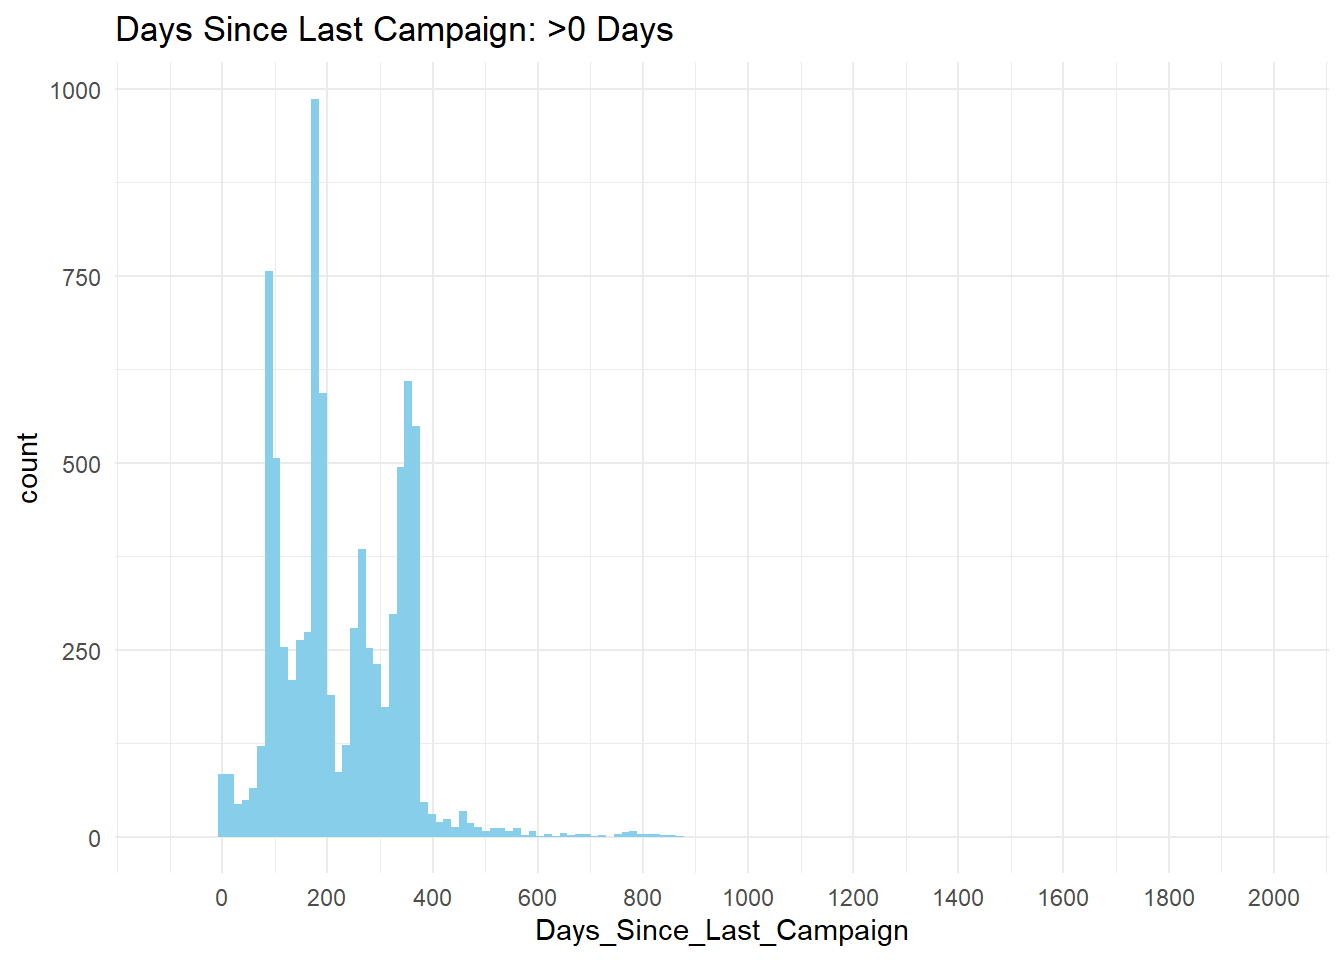
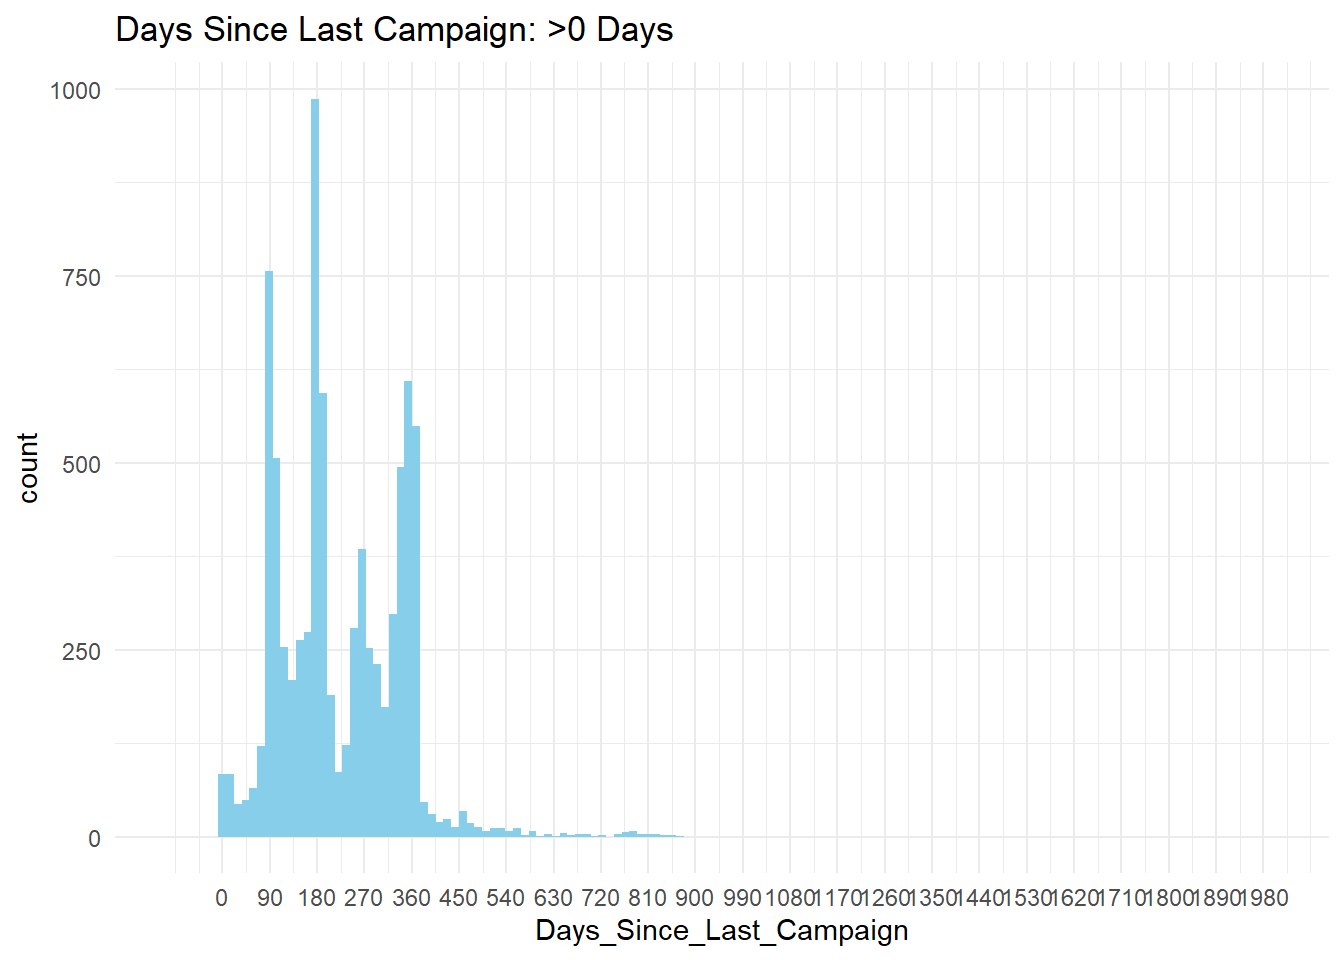
assignment 1

Changed region(s): [[0.1875, 0.9062, 0.8438, 0.9688], [0.875, 0.9062, 0.9688, 0.9688]]

diff --git a/Assignment_1/Assignment_1_Fox.html b/Assignment_1/Assignment_1_Fox.html
@@ -122,18 +122,18 @@ pre > code.sourceCode > span > a:first-child::before { text-decoration: underlin
 <span id="cb1-4"><a href="#cb1-4" aria-hidden="true" tabindex="-1"></a><span class="fu">library</span>(knitr)</span>
 <span id="cb1-5"><a href="#cb1-5" aria-hidden="true" tabindex="-1"></a><span class="fu">library</span>(scales)</span>
 <span id="cb1-6"><a href="#cb1-6" aria-hidden="true" tabindex="-1"></a><span class="fu">library</span>(reshape2)</span>
-<span id="cb1-7"><a href="#cb1-7" aria-hidden="true" tabindex="-1"></a><span class="fu">library</span>(GGally)</span></code><button title="Copy to Clipboard" class="code-copy-button"><i class="bi"></i></button></pre></div>
+<span id="cb1-7"><a href="#cb1-7" aria-hidden="true" tabindex="-1"></a><span class="fu">library</span>(GGally)</span>
+<span id="cb1-8"><a href="#cb1-8" aria-hidden="true" tabindex="-1"></a></span>
+<span id="cb1-9"><a href="#cb1-9" aria-hidden="true" tabindex="-1"></a>df <span class="ot">&lt;-</span> <span class="fu">read_delim</span>(<span class="st">"https://raw.githubusercontent.com/AmandaSFox/DATA622/refs/heads/main/Assignment_1/bank-full.csv"</span>,</span>
+<span id="cb1-10"><a href="#cb1-10" aria-hidden="true" tabindex="-1"></a>                 <span class="at">delim =</span> <span class="st">";"</span>,</span>
+<span id="cb1-11"><a href="#cb1-11" aria-hidden="true" tabindex="-1"></a>                 <span class="at">quote =</span> <span class="st">"</span><span class="sc">\"</span><span class="st">"</span>)</span></code><button title="Copy to Clipboard" class="code-copy-button"><i class="bi"></i></button></pre></div>
 </div>
 </section>
 <section id="dataset-overview" class="level2">
 <h2 class="anchored" data-anchor-id="dataset-overview">2. Dataset Overview</h2>
 <p>The dataset contains <strong><em>45,211 records and 17 columns</em></strong>. There are <strong><em>no missing values and no duplicate records</em></strong>: as we go through this EDA exercise, it will become increasingly clear that this dataset has been thoroughly cleaned.</p>
 <div class="cell">
-<div class="sourceCode cell-code" id="cb2"><pre class="sourceCode r code-with-copy"><code class="sourceCode r"><span id="cb2-1"><a href="#cb2-1" aria-hidden="true" tabindex="-1"></a>df <span class="ot">&lt;-</span> <span class="fu">read_delim</span>(<span class="st">"https://raw.githubusercontent.com/AmandaSFox/DATA622/refs/heads/main/Assignment_1/bank-full.csv"</span>,</span>
-<span id="cb2-2"><a href="#cb2-2" aria-hidden="true" tabindex="-1"></a>                 <span class="at">delim =</span> <span class="st">";"</span>,</span>
-<span id="cb2-3"><a href="#cb2-3" aria-hidden="true" tabindex="-1"></a>                 <span class="at">quote =</span> <span class="st">"</span><span class="sc">\"</span><span class="st">"</span>)</span>
-<span id="cb2-4"><a href="#cb2-4" aria-hidden="true" tabindex="-1"></a></span>
-<span id="cb2-5"><a href="#cb2-5" aria-hidden="true" tabindex="-1"></a><span class="fu">glimpse</span>(df)</span></code><button title="Copy to Clipboard" class="code-copy-button"><i class="bi"></i></button></pre></div>
+<div class="sourceCode cell-code" id="cb2"><pre class="sourceCode r code-with-copy"><code class="sourceCode r"><span id="cb2-1"><a href="#cb2-1" aria-hidden="true" tabindex="-1"></a><span class="fu">glimpse</span>(df)</span></code><button title="Copy to Clipboard" class="code-copy-button"><i class="bi"></i></button></pre></div>
 <div class="cell-output cell-output-stdout">
 <pre><code>Rows: 45,211
 Columns: 17
@@ -155,7 +155,8 @@ $ previous  &lt;dbl&gt; 0, 0, 0, 0, 0, 0, 0, 0, 0, 0, 0, 0, 0, 0, 0, 0, 0, 0, 0,
 $ poutcome  &lt;chr&gt; "unknown", "unknown", "unknown", "unknown", "unknown", "unkn…
 $ y         &lt;chr&gt; "no", "no", "no", "no", "no", "no", "no", "no", "no", "no", …</code></pre>
 </div>
-<div class="sourceCode cell-code" id="cb4"><pre class="sourceCode r code-with-copy"><code class="sourceCode r"><span id="cb4-1"><a href="#cb4-1" aria-hidden="true" tabindex="-1"></a><span class="fu">colSums</span>(<span class="fu">is.na</span>(df))</span></code><button title="Copy to Clipboard" class="code-copy-button"><i class="bi"></i></button></pre></div>
+<div class="sourceCode cell-code" id="cb4"><pre class="sourceCode r code-with-copy"><code class="sourceCode r"><span id="cb4-1"><a href="#cb4-1" aria-hidden="true" tabindex="-1"></a><span class="co"># missing data</span></span>
+<span id="cb4-2"><a href="#cb4-2" aria-hidden="true" tabindex="-1"></a><span class="fu">colSums</span>(<span class="fu">is.na</span>(df))</span></code><button title="Copy to Clipboard" class="code-copy-button"><i class="bi"></i></button></pre></div>
 <div class="cell-output cell-output-stdout">
 <pre><code>      age       job   marital education   default   balance   housing      loan 
         0         0         0         0         0         0         0         0 
@@ -164,14 +165,14 @@ $ y         &lt;chr&gt; "no", "no", "no", "no", "no", "no", "no", "no", "no", "n
         y 
         0 </code></pre>
 </div>
-<div class="sourceCode cell-code" id="cb6"><pre class="sourceCode r code-with-copy"><code class="sourceCode r"><span id="cb6-1"><a href="#cb6-1" aria-hidden="true" tabindex="-1"></a><span class="fu">nrow</span>(df) <span class="sc">-</span> <span class="fu">nrow</span>(<span class="fu">distinct</span>(df))</span></code><button title="Copy to Clipboard" class="code-copy-button"><i class="bi"></i></button></pre></div>
+<div class="sourceCode cell-code" id="cb6"><pre class="sourceCode r code-with-copy"><code class="sourceCode r"><span id="cb6-1"><a href="#cb6-1" aria-hidden="true" tabindex="-1"></a><span class="co"># duplicate records</span></span>
+<span id="cb6-2"><a href="#cb6-2" aria-hidden="true" tabindex="-1"></a><span class="fu">nrow</span>(df) <span class="sc">-</span> <span class="fu">nrow</span>(<span class="fu">distinct</span>(df))</span></code><button title="Copy to Clipboard" class="code-copy-button"><i class="bi"></i></button></pre></div>
 <div class="cell-output cell-output-stdout">
 <pre><code>[1] 0</code></pre>
 </div>
 </div>
 <p>The data consists of bank customers who were contacted as part of a marketing campaign and the features describe customer demographics, financial history, and characteristics of their interactions, as well as a label “y” which indicates whether they did choose the new deposit account.</p>
-<p>Before doing further analysis, I changed the column names to be more meaningful: this is my personal preference so that I can more clearly see how the data stacks up against my expectations based on my business knowledge.</p>
-<p>Now let’s <em>get to know our population</em>, starting with the categorical variables:</p>
+<p>Before doing further analysis, I reviewed the documentation and changed the column names to be more meaningful: I like to do this so that I can more clearly see how the data stacks up against my expectations and business knowledge.</p>
 <div class="cell">
 <div class="sourceCode cell-code" id="cb8"><pre class="sourceCode r code-with-copy"><code class="sourceCode r"><span id="cb8-1"><a href="#cb8-1" aria-hidden="true" tabindex="-1"></a>df_final <span class="ot">&lt;-</span> df <span class="sc">%&gt;%</span> </span>
 <span id="cb8-2"><a href="#cb8-2" aria-hidden="true" tabindex="-1"></a>  <span class="fu">set_names</span>(<span class="st">"Age"</span>,<span class="st">"Occupation"</span>,<span class="st">"Marital_Status"</span>,<span class="st">"Education"</span>,</span>
@@ -183,15 +184,16 @@ $ y         &lt;chr&gt; "no", "no", "no", "no", "no", "no", "no", "no", "no", "n
 </section>
 <section id="exploring-the-data" class="level2">
 <h2 class="anchored" data-anchor-id="exploring-the-data">3. Exploring the Data</h2>
-<p>Simple frequency distributions of the categorical variables were done to check for class imbalance. Overall, this data paints a picture of a <strong><em>financially stable, middle-class, working-age adult population</em></strong>: typical of <em>target customers for banking products</em>.</p>
-<p>It should also be noted here again that this data is <em>extremely clean</em>: just as there are no missing values, there are no clearly incorrect values (e.g.&nbsp;misspellings, upper/lower case issues, values appearing in the wrong columns/truncated/concatenated/etc.).</p>
+<p>Now let’s <em>get to know our population</em>, starting with the <strong>categorical variables</strong>.</p>
+<p>Simple frequency distributions were done to check for class imbalance. Overall, this data paints a picture of a <strong>financially stable, middle-class, working-age adult population</strong> which is <strong>typical of target customers for banking products</strong> like deposit accounts.</p>
+<p>It should be noted here again that this data is <em>extremely clean</em>: just as there are no missing values, there are no clearly incorrect values (e.g.&nbsp;misspellings, upper/lower case issues, values appearing in the wrong columns/truncated/concatenated/etc.).</p>
 <p>Regarding the target population:</p>
 <p><strong>1. Most target customers were employed</strong>: There were eight occupation categories comprising <strong>89.4%</strong> of the population, with blue-collar (21.5%), management (20.9%), and technician (16.8%) being the most common categories. Only 10.0% of customers were not currently employed (retired, unemployed, student) and 0.6% were unknown.</p>
 <p><strong>2. Education varied</strong> in rough alignment with the occupations above: 29.4% had tertiary education, 51.3% secondary, 15.2% primary</p>
 <p><strong>3. Most were married (60.2%)</strong></p>
 <p><strong>4. They were financially stable</strong>: 98.2% were not in default, 55.6% had housing loans and only 16% had personal loans.</p>
-<p>The “previous outcome” field is interesting: <em>3.3% of previous interactions were deemed “successes,”</em> which raises the question why they were called again. 81.7% were “unknown” and 4.1% “other,” so I <em>do not believe this field is very meaningful</em>.</p>
-<p>Finally, <strong><em>11.4% of contacts were successful</em></strong> in selling the product, the goal of the marketing outreach: this is our <strong>label</strong> for supervised ML.</p>
+<p>Regarding the other categorical fields, the “previous outcome” field is interesting: <strong>3.3% of previous interactions were deemed “successes,”</strong> which raises the question why they were called again. 81.7% were “unknown,” which seems to indicate this was their first interaction, and 4.1% “other,” so I <em>do not believe this field is very meaningful</em>.</p>
+<p>Finally, our <strong>label (y)</strong>: <strong><em>11.4% of contacts were successful</em></strong> in selling the product, the goal of the marketing outreach and our label for supervised ML.</p>
 <div class="cell">
 <div class="sourceCode cell-code" id="cb9"><pre class="sourceCode r code-with-copy"><code class="sourceCode r"><span id="cb9-1"><a href="#cb9-1" aria-hidden="true" tabindex="-1"></a><span class="co"># categorical column list</span></span>
 <span id="cb9-2"><a href="#cb9-2" aria-hidden="true" tabindex="-1"></a>cat_cols <span class="ot">&lt;-</span> df_final <span class="sc">%&gt;%</span> </span>
@@ -284,8 +286,8 @@ $ y         &lt;chr&gt; "no", "no", "no", "no", "no", "no", "no", "no", "no", "n
 2 yes    5289  11.7</code></pre>
 </div>
 </div>
-<p>Next, we look at our numeric variables for central tendency, spread, and outliers.</p>
-<p>To complete our demographic analysis, I first analyzed <strong>Age</strong>, which shows a solid, <em>mostly working-age adult population</em> in alignment with a bank’s target customer base:</p>
+<p>Next, we look at our <strong>numeric variables</strong> for central tendency, spread, and outliers.</p>
+<p>To complete our demographic analysis, I first looked at <strong>Age</strong>, which shows a solid, <em>mostly working-age adult population</em> in alignment with a bank’s target customer base:</p>
 <div class="cell">
 <div class="sourceCode cell-code" id="cb11"><pre class="sourceCode r code-with-copy"><code class="sourceCode r"><span id="cb11-1"><a href="#cb11-1" aria-hidden="true" tabindex="-1"></a><span class="co"># numerical column list: removed "Day" as it is not a meaningful number</span></span>
 <span id="cb11-2"><a href="#cb11-2" aria-hidden="true" tabindex="-1"></a>df_num <span class="ot">&lt;-</span> df_final <span class="sc">%&gt;%</span> </span>
@@ -312,8 +314,9 @@ $ y         &lt;chr&gt; "no", "no", "no", "no", "no", "no", "no", "no", "no", "n
 </div>
 </div>
 </div>
-<p>Another numeric column (Avg Balance) tells us more about their financial health. Note that <em>most people owed very little with a few owing quite a lot</em>: given the extreme right skew, this histogram is zoomed in to focus on balances below $5000.</p>
-<p><strong>Average annual balance</strong>: The median annual average balance owed was only $448, with a narrow IQR of $1,480. The max was high but reasonable at $102,127, and there were some small negative balances owed, likely reflecting overpaid accounts. These outliers and negative values will be <em>left alone</em> as they are realistic and potentially meaningful.</p>
+<p>Another numeric column (Avg Balance) tells us more about their financial health. Note that <em>most people owed very little with a few owing quite a lot</em>: given the <strong>extreme right skew</strong>, the histogram below is zoomed in to balances below $5000.</p>
+<p><strong>Average annual balance</strong>: The median annual average balance owed was only $448, with a narrow IQR of $1,480. The max was realistic at $102,127, and there were some small negative balances owed, likely reflecting overpaid accounts.</p>
+<p>These outliers and negative values will be <em>left alone</em> as they are realistic and meaningful.</p>
 <div class="cell">
 <div class="sourceCode cell-code" id="cb14"><pre class="sourceCode r code-with-copy"><code class="sourceCode r"><span id="cb14-1"><a href="#cb14-1" aria-hidden="true" tabindex="-1"></a><span class="fu">summary</span>(df_num<span class="sc">$</span>Avg_Balance)</span></code><button title="Copy to Clipboard" class="code-copy-button"><i class="bi"></i></button></pre></div>
 <div class="cell-output cell-output-stdout">
@@ -337,10 +340,13 @@ $ y         &lt;chr&gt; "no", "no", "no", "no", "no", "no", "no", "no", "no", "n
 </div>
 </div>
 <p>The remaining numeric variables describe the outreach itself:</p>
-<p><strong>1. Median call duration</strong> was 180 seconds, with the longest call = 4918 seconds or over an hour and 20 minutes long. The IQR was 216 seconds, with 50% of calls lasting between 103 and 319 seconds. No negative numbers were found. The outliers will be <em>left alone</em> as they are realistic for long phone calls.</p>
-<p><strong>2. Contacts before this campaign</strong>: This was the first campaign for a large majority of customers (81.9%)</p>
+<p><strong>1. Median call duration</strong> was 180 seconds, with the longest call = 4918 seconds or over an hour and 20 minutes long. The IQR was 216 seconds, with 50% of calls lasting between 103 and 319 seconds.</p>
+<p>No negative numbers were found. The outliers will be <em>left alone</em> as they are realistic and meaningful.</p>
+<p><strong>2. Contacts before this campaign</strong>: This was the first campaign for a large majority of customers (81.9%). No negative or obviously incorrect values were found.</p>
 <p><strong>3. Contacts this campaign</strong>: The median # of contacts this campaign was two calls, with an IQR of two. The min was one call, which makes sense, but the max ranged up to 63: this seems unusual and could possibly be a data issue but we will <em>leave these outliers alone</em> for now.</p>
-<p><strong>4. Days since last campaign</strong>: This is the first <em>potential problem</em> in the data: the 81.7% of first-time outreach customers are denoted here as -1 days since last campaign, which will cause statistical and mathematical issues (see summary for an example). <em>These might be better changed to NA</em>. Ignoring these for now, the histogram below shows values &gt;0, which vary widely with no particular pattern. I’m not clear on the value of this data from a business perspective, but we will see.</p>
+<p><strong>4. Days since last campaign</strong>: This is the <strong>first potential problem</strong> in the data: the 81.7% of first-time outreach customers are denoted here as -1 days since last campaign, which will cause statistical and mathematical issues (see summary).</p>
+<p><em>These -1 numeric values might be better changed to NA</em>. Ignoring these for now, the histogram below shows values &gt;0, which vary widely in a multimodal distribution with perhaps a <em>quarterly</em> pattern and a very <em>long tail</em>. I’m not clear on the value of this data, but we will leave it alone.</p>
+<p>Note on other visuals not included: Box plots reflected the distributions and outliers noted above, so I did not include any here.</p>
 <div class="cell">
 <div class="sourceCode cell-code" id="cb17"><pre class="sourceCode r code-with-copy"><code class="sourceCode r"><span id="cb17-1"><a href="#cb17-1" aria-hidden="true" tabindex="-1"></a><span class="co"># Call Duration</span></span>
 <span id="cb17-2"><a href="#cb17-2" aria-hidden="true" tabindex="-1"></a><span class="fu">summary</span>(df_num<span class="sc">$</span>Duration)</span></code><button title="Copy to Clipboard" class="code-copy-button"><i class="bi"></i></button></pre></div>
@@ -465,7 +471,7 @@ $ y         &lt;chr&gt; "no", "no", "no", "no", "no", "no", "no", "no", "no", "n
 <span id="cb32-6"><a href="#cb32-6" aria-hidden="true" tabindex="-1"></a>  <span class="fu">geom_histogram</span>(<span class="at">bins =</span> <span class="dv">60</span>, <span class="at">fill =</span> <span class="st">"skyblue"</span>) <span class="sc">+</span></span>
 <span id="cb32-7"><a href="#cb32-7" aria-hidden="true" tabindex="-1"></a>  <span class="fu">theme_minimal</span>() <span class="sc">+</span></span>
 <span id="cb32-8"><a href="#cb32-8" aria-hidden="true" tabindex="-1"></a>  <span class="fu">coord_cartesian</span>(<span class="fu">c</span>(<span class="sc">-</span><span class="dv">100</span>,<span class="dv">2000</span>)) <span class="sc">+</span></span>
-<span id="cb32-9"><a href="#cb32-9" aria-hidden="true" tabindex="-1"></a>  <span class="fu">scale_x_continuous</span>(<span class="at">breaks =</span> <span class="fu">seq</span>(<span class="dv">0</span>, <span class="dv">2000</span>, <span class="at">by =</span> <span class="dv">200</span>)) <span class="sc">+</span></span>
+<span id="cb32-9"><a href="#cb32-9" aria-hidden="true" tabindex="-1"></a>  <span class="fu">scale_x_continuous</span>(<span class="at">breaks =</span> <span class="fu">seq</span>(<span class="dv">0</span>, <span class="dv">2000</span>, <span class="at">by =</span> <span class="dv">90</span>)) <span class="sc">+</span></span>
 <span id="cb32-10"><a href="#cb32-10" aria-hidden="true" tabindex="-1"></a>  <span class="fu">labs</span>(<span class="at">title =</span> <span class="st">"Days Since Last Campaign: &gt;0 Days"</span>)</span></code><button title="Copy to Clipboard" class="code-copy-button"><i class="bi"></i></button></pre></div>
 <div class="cell-output-display">
 <div>
@@ -480,7 +486,9 @@ $ y         &lt;chr&gt; "no", "no", "no", "no", "no", "no", "no", "no", "no", "n
 <h2 class="anchored" data-anchor-id="relationships-between-variables">4. Relationships Between Variables</h2>
 <section id="numeric-vs-numeric---correlation-analysis" class="level3">
 <h3 class="anchored" data-anchor-id="numeric-vs-numeric---correlation-analysis">4.1 Numeric vs Numeric - Correlation Analysis</h3>
-<p>A correlation matrix was computed to identify relationships between numeric features. No significant correlations were found, in fact, <em>only one pair of numeric columns had a correlation coefficient (absolute value) over 0.1</em>: “contacts before this campaign” and “days since last campaign”. This makes sense as most (81.4%) of people contacted had zero contacts before this campaign and therefore had a value of -1 days since last campaign.</p>
+<p>A correlation matrix was computed to identify relationships between numeric features.</p>
+<p>No significant correlations were found, in fact, <strong>all pairs had correlation coefficients (absolute value) less than 0.1 except for one</strong>: “contacts before this campaign” and “days since last campaign” had a correlation coefficient of 0.45. This is still low but it makes sense that there is some correlation because over 80% of people contacted had had zero contacts before this campaign and therefore had a value of -1 days since last campaign.</p>
+<p>The <strong>lack of correlation</strong> between columns is more evidence that this dataset was thoroughly <strong>pre-processed</strong>.</p>
 <div class="cell">
 <div class="sourceCode cell-code" id="cb33"><pre class="sourceCode r code-with-copy"><code class="sourceCode r"><span id="cb33-1"><a href="#cb33-1" aria-hidden="true" tabindex="-1"></a>cor_matrix <span class="ot">&lt;-</span> df_num <span class="sc">%&gt;%</span> </span>
 <span id="cb33-2"><a href="#cb33-2" aria-hidden="true" tabindex="-1"></a>  <span class="fu">cor</span>(<span class="at">use =</span> <span class="st">"pairwise.complete.obs"</span>)</span>
@@ -516,12 +524,12 @@ $ y         &lt;chr&gt; "no", "no", "no", "no", "no", "no", "no", "no", "no", "n
 </div>
 </div>
 </div>
-<p>I also tried ggally and scatterplots in case there were non-linear patterns, but they showed no patterns.</p>
-<p>The lack of correlation among these columns is more evidence that this dataset was thoroughly pre-processed.</p>
+<p><em>Other visuals not included here</em>: I tried scatterplots and ggally in case there were non-linear correlation patterns, but they showed nothing of interest.</p>
 </section>
 <section id="numeric-vs-categorical---boxplots" class="level3">
 <h3 class="anchored" data-anchor-id="numeric-vs-categorical---boxplots">4.2 Numeric vs Categorical - Boxplots</h3>
 <p>Boxplots were used to review how numeric features (e.g., age, balance, duration) vary across categorical groups like job, education, and marital.</p>
+<p>None of the relationships were unexpected, and many were not meaningful at all (month vs.&nbsp;age, for example). However, a few interesting/intuitive pairs are included below as examples.</p>
 <div class="cell">
 <div class="sourceCode cell-code" id="cb36"><pre class="sourceCode r code-with-copy"><code class="sourceCode r"><span id="cb36-1"><a href="#cb36-1" aria-hidden="true" tabindex="-1"></a>num_cols <span class="ot">&lt;-</span> df_num <span class="sc">%&gt;%</span> </span>
 <span id="cb36-2"><a href="#cb36-2" aria-hidden="true" tabindex="-1"></a>  <span class="fu">names</span>()</span>
@@ -1304,7 +1312,7 @@ $ y         &lt;chr&gt; "no", "no", "no", "no", "no", "no", "no", "no", "no", "n
 </section>
 <section id="summary-of-key-findings" class="level3">
 <h3 class="anchored" data-anchor-id="summary-of-key-findings">Summary of Key Findings</h3>
-<p>The dataset is clean and ready for modeling, with no missing values, duplicates, or data quality issues. Numeric variables are mostly independent, with no strong correlations, which simplifies model selection. Categorical variables exhibit some class imbalance, particularly in job, which may require consideration in model training. No surprising or unexpected patterns were found; the data aligns with reasonable expectations for a financial marketing campaign.</p>
+<p>The dataset is clean and ready for modeling, with no missing values, duplicates, highly correlated columns, or data quality issues. Numeric variables are mostly independent, with no strong correlations, which simplifies model selection. Categorical variables exhibit some class imbalance, particularly in job, which may require consideration in model training. No surprising or unexpected patterns were found; the data aligns with reasonable expectations for a financial marketing campaign.</p>
 </section>
 </section>
 <section id="works-cited" class="level2">
